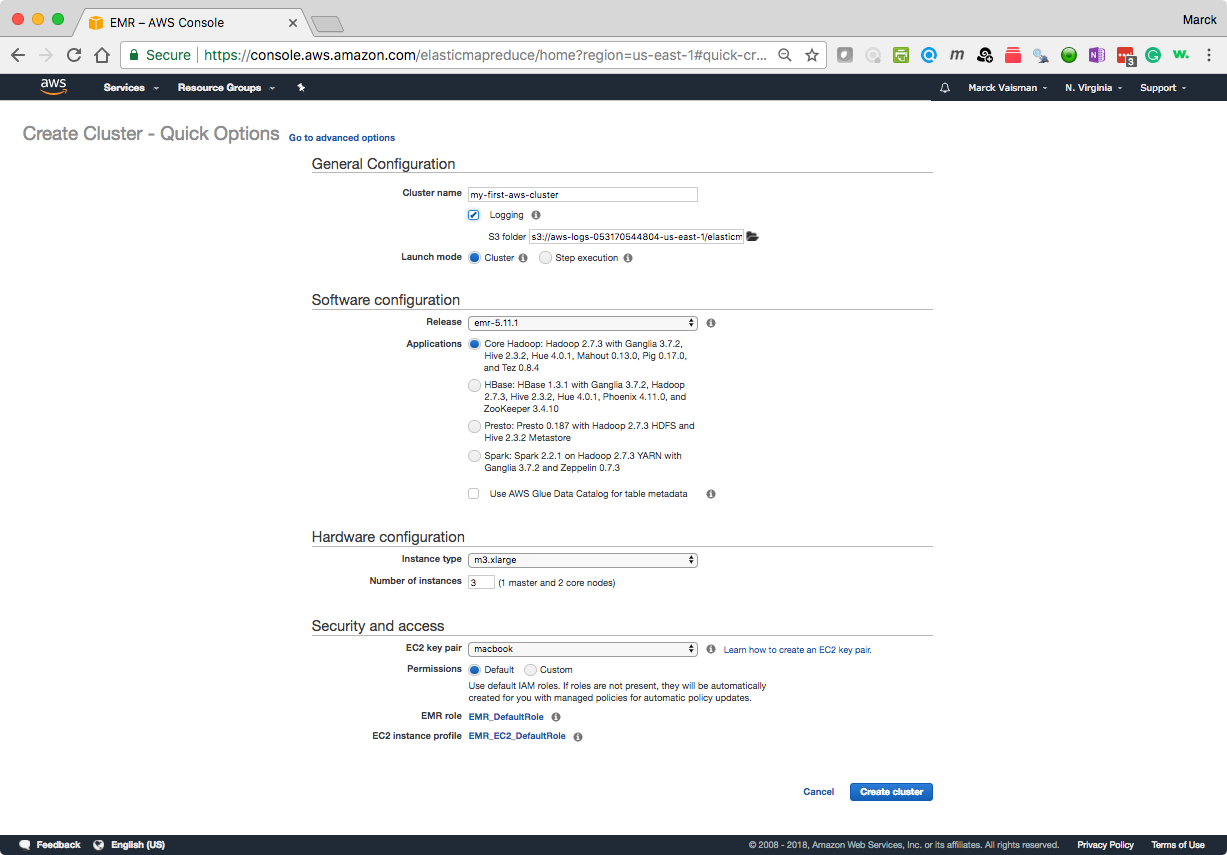
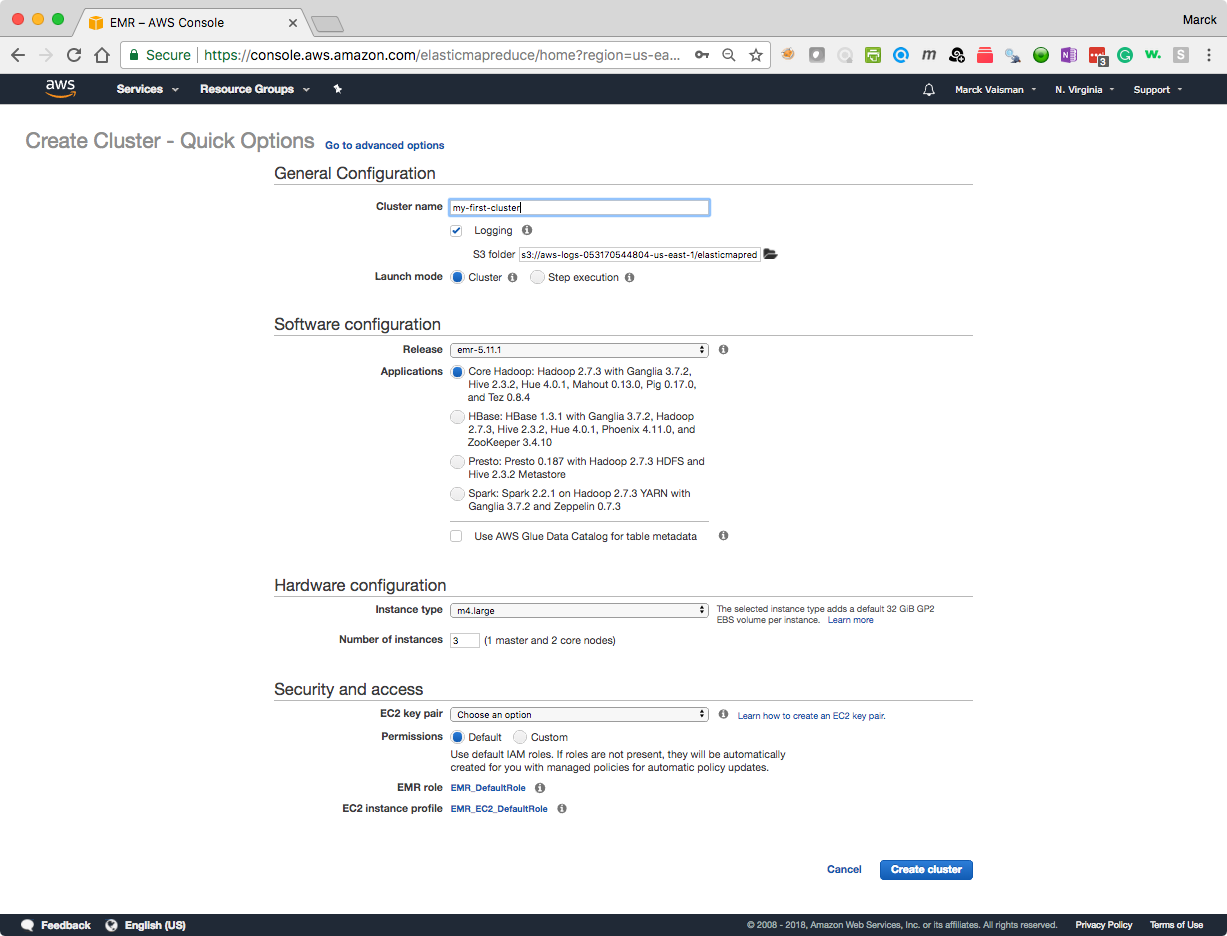
add create s3 bucket section and hadoop job example

diff --git a/README.md b/README.md
@@ -4,9 +4,9 @@
 
 1. Start an Amazon Elastic MapReduce (EMR) Cluster using Quickstart with the follwing setup (as shown in the picture):
 	*  Give the cluster a name that is meaningful to you
-	*  Use Release `emr-5.1.1`
+	*  Use Release `emr-5.11.1`
 	*  Select the first option under Applications
-	*  Select 1 master and 2 core nodes, using `m3.xlarge` instance types
+	*  Select 1 master and 2 core nodes, using `m4.large` instance types
 	*  Select your correct EC2 keypair or you will not be able to connect to the cluster
 	*  Click **Create Cluster**
 
@@ -60,42 +60,203 @@ EEEEEEEEEEEEEEEEEEEE MMMMMMM             MMMMMMM RRRRRRR      RRRRRR
 [hadoop@ip-172-31-25-210 ~]$
 ```
 
+## Create your own S3 Bucket
+
+You will create an S3 bucket of your own. EMR clusters can read/write data from the cluster's HDFS as well as S3 buckets. Remember, your HDFS storage gets deleted when you shut down a cluster. If you want to keep data files, you can save them to S3.
+
+**Make sure your region is N. Virgina**
+
+1. Go to the S3 Console
+	<img src='images/s3-01-service.png'><br>
+	
+2. Click "Create Bucket"	
+	<img src='images/s3-02-create-bucket.png'><br>
+
+3. Enter a **globally unique bucket name.** Use a combination of letters, dashes and numbers. This name must me unique across all S3 buckets on Amazon. After the first screen, you can keep the defaults. Click Next 3 times and then "Create Bucket".
+	<img src='images/s3-03-name-bucket.png'><br>
+
 
 ## Run some HDFS commands
 
 The reference guide for all the HDFS Shell commands is here: [https://hadoop.apache.org/docs/r2.7.3/hadoop-project-dist/hadoop-common/FileSystemShell.html](https://hadoop.apache.org/docs/r2.7.3/hadoop-project-dist/hadoop-common/FileSystemShell.html)
 
-1. List files in cluster's HDFS (will be empty):
+1. List files in your newly created cluster's HDFS (will be empty):
 	`hdfs dfs -ls` or `hadoop fs -ls`
 	
-2. 	List files in a public S3 bucket owned by Prof. Vaisman, created for this course: `hdfs dfs -ls s3://bigdatateaching/`
+2. 	List files in a public S3 bucket owned by Prof. Vaisman, created for this course: 	`hdfs dfs -ls s3://bigdatateaching/`
 
 	```
 	[hadoop@ip-172-31-25-210 ~]$ hadoop fs -ls s3://bigdatateaching/
-Found 11 items
-drwxrwxrwx   - hadoop hadoop          0 1970-01-01 00:00 s3://bigdatateaching/criteo
-drwxrwxrwx   - hadoop hadoop          0 1970-01-01 00:00 s3://bigdatateaching/forensicswiki
-drwxrwxrwx   - hadoop hadoop          0 1970-01-01 00:00 s3://bigdatateaching/graphx
-drwxrwxrwx   - hadoop hadoop          0 1970-01-01 00:00 s3://bigdatateaching/ham
-drwxrwxrwx   - hadoop hadoop          0 1970-01-01 00:00 s3://bigdatateaching/internet-census-2012
-drwxrwxrwx   - hadoop hadoop          0 1970-01-01 00:00 s3://bigdatateaching/meta
-drwxrwxrwx   - hadoop hadoop          0 1970-01-01 00:00 s3://bigdatateaching/ncdc
-drwxrwxrwx   - hadoop hadoop          0 1970-01-01 00:00 s3://bigdatateaching/nyctaxi
-drwxrwxrwx   - hadoop hadoop          0 1970-01-01 00:00 s3://bigdatateaching/quazyilx
-drwxrwxrwx   - hadoop hadoop          0 1970-01-01 00:00 s3://bigdatateaching/shakespeare
-drwxrwxrwx   - hadoop hadoop          0 1970-01-01 00:00 s3://bigdatateaching/spam
-[hadoop@ip-172-31-25-210 ~]$
+	Found 11 items
+	drwxrwxrwx   - hadoop hadoop          0 1970-01-01 00:00 s3://bigdatateaching/criteo
+	drwxrwxrwx   - hadoop hadoop          0 1970-01-01 00:00 s3://bigdatateaching/forensicswiki
+	drwxrwxrwx   - hadoop hadoop          0 1970-01-01 00:00 s3://bigdatateaching/graphx
+	drwxrwxrwx   - hadoop hadoop          0 1970-01-01 00:00 s3://bigdatateaching/ham
+	drwxrwxrwx   - hadoop hadoop          0 1970-01-01 00:00 s3://bigdatateaching/internet-census-2012
+	drwxrwxrwx   - hadoop hadoop          0 1970-01-01 00:00 s3://bigdatateaching/meta
+	drwxrwxrwx   - hadoop hadoop          0 1970-01-01 00:00 s3://bigdatateaching/ncdc
+	drwxrwxrwx   - hadoop hadoop          0 1970-01-01 00:00 s3://bigdatateaching/nyctaxi
+	drwxrwxrwx   - hadoop hadoop          0 1970-01-01 00:00 s3://bigdatateaching/quazyilx
+	drwxrwxrwx   - hadoop hadoop          0 1970-01-01 00:00 s3://bigdatateaching/shakespeare
+	drwxrwxrwx   - hadoop hadoop          0 1970-01-01 00:00 s3://bigdatateaching/spam
+	[hadoop@ip-172-31-25-210 ~]$
 	```
 	
 3. Copy a file from the course's S3 public bucket **to your personal S3 bucket**
-`hadoop fs -cp s3://bigdatateaching/shakespeare/100-0.txt s3://[[your-bucket-name]]/`
-**Note: this file exists until you delete it**
+	`hadoop fs -cp s3://bigdatateaching/shakespeare/100-0.txt s3://[[your-bucket-name]]/`
+
+	**Note: this file exists until you delete it**
+
+	Now you can see list the contents of **your** S3 bucket: `hadoop fs -ls s3://[[your-bucket-name]]`
 
 4. Copy a file from the course's S3 public bucket **the cluster's HDFS**
+
+	`hadoop fs -cp s3://bigdatateaching/shakespeare/100-0.txt ./`
+	
+	In the previous command, you did almost the same as in step 3. However, the destination is different. Notice that the destination **does not** have the `s3://`prefix. Anytime you use the HDFS shell commands, and the source/location do not have `s3://` you are working with the cluster's HDFS.
+	
+	You can now list the contents of your cluster's HDFS:
+	`hadoop fs -ls`
+
+	```
+	Found 1 items
+-rw-r--r--   1 hadoop hadoop    5856576 2018-02-09 00:57 100-0.txt
 ```
-hadoop fs -cp s3://bigdatateaching/shakespeare/100-0.txt ./
-hadoop fs -ls
+
+## Run a Hadoop job
+
+You will run a Hadoop job using a built-in example that comes with Hadoop. It is the Word Count. You will issue a command that will start the job with a specified `.jar` (Java Archive) file and pass in some parameters. You will use the `100-0.txt` file in HDFS as the input, and you will specify the output to your S3 bucket.
+
+`hadoop jar /usr/lib/hadoop-mapreduce/hadoop-mapreduce-examples.jar wordcount 100-0.txt s3://[[your-s3-bucket]]/shakespearewordcount`
+
+You should see something like this:
+
 ```
+18/02/09 01:03:02 INFO impl.TimelineClientImpl: Timeline service address: http://ip-172-31-15-90.ec2.internal:8188/ws/v1/timeline/
+18/02/09 01:03:02 INFO client.RMProxy: Connecting to ResourceManager at ip-172-31-15-90.ec2.internal/172.31.15.90:8032
+18/02/09 01:03:03 INFO input.FileInputFormat: Total input paths to process : 1
+18/02/09 01:03:03 INFO lzo.GPLNativeCodeLoader: Loaded native gpl library
+18/02/09 01:03:03 INFO lzo.LzoCodec: Successfully loaded & initialized native-lzo library [hadoop-lzo rev fc548a0642e795113789414490c9e59e6a8b91e4]
+18/02/09 01:03:03 INFO mapreduce.JobSubmitter: number of splits:1
+18/02/09 01:03:03 INFO mapreduce.JobSubmitter: Submitting tokens for job: job_1518130868569_0001
+18/02/09 01:03:04 INFO impl.YarnClientImpl: Submitted application application_1518130868569_0001
+18/02/09 01:03:04 INFO mapreduce.Job: The url to track the job: http://ip-172-31-15-90.ec2.internal:20888/proxy/application_1518130868569_0001/
+18/02/09 01:03:04 INFO mapreduce.Job: Running job: job_1518130868569_0001
+18/02/09 01:03:15 INFO mapreduce.Job: Job job_1518130868569_0001 running in uber mode : false
+18/02/09 01:03:15 INFO mapreduce.Job:  map 0% reduce 0%
+18/02/09 01:03:27 INFO mapreduce.Job:  map 100% reduce 0%
+18/02/09 01:03:36 INFO mapreduce.Job:  map 100% reduce 33%
+18/02/09 01:03:40 INFO mapreduce.Job:  map 100% reduce 67%
+18/02/09 01:03:41 INFO mapreduce.Job:  map 100% reduce 100%
+18/02/09 01:03:42 INFO mapreduce.Job: Job job_1518130868569_0001 completed successfully
+18/02/09 01:03:43 INFO mapreduce.Job: Counters: 55
+	File System Counters
+		FILE: Number of bytes read=599117
+		FILE: Number of bytes written=1706110
+		FILE: Number of read operations=0
+		FILE: Number of large read operations=0
+		FILE: Number of write operations=0
+		HDFS: Number of bytes read=5856703
+		HDFS: Number of bytes written=0
+		HDFS: Number of read operations=2
+		HDFS: Number of large read operations=0
+		HDFS: Number of write operations=0
+		S3: Number of bytes read=0
+		S3: Number of bytes written=817344
+		S3: Number of read operations=0
+		S3: Number of large read operations=0
+		S3: Number of write operations=0
+	Job Counters
+		Killed reduce tasks=1
+		Launched map tasks=1
+		Launched reduce tasks=3
+		Data-local map tasks=1
+		Total time spent by all maps in occupied slots (ms)=427584
+		Total time spent by all reduces in occupied slots (ms)=2740224
+		Total time spent by all map tasks (ms)=8908
+		Total time spent by all reduce tasks (ms)=28544
+		Total vcore-milliseconds taken by all map tasks=8908
+		Total vcore-milliseconds taken by all reduce tasks=28544
+		Total megabyte-milliseconds taken by all map tasks=13682688
+		Total megabyte-milliseconds taken by all reduce tasks=87687168
+	Map-Reduce Framework
+		Map input records=147838
+		Map output records=959301
+		Map output bytes=9117121
+		Map output materialized bytes=599130
+		Input split bytes=127
+		Combine input records=959301
+		Combine output records=76169
+		Reduce input groups=76169
+		Reduce shuffle bytes=599130
+		Reduce input records=76169
+		Reduce output records=76169
+		Spilled Records=152338
+		Shuffled Maps =3
+		Failed Shuffles=0
+		Merged Map outputs=3
+		GC time elapsed (ms)=1227
+		CPU time spent (ms)=8900
+		Physical memory (bytes) snapshot=1666109440
+		Virtual memory (bytes) snapshot=17266147328
+		Total committed heap usage (bytes)=1656225792
+	Shuffle Errors
+		BAD_ID=0
+		CONNECTION=0
+		IO_ERROR=0
+		WRONG_LENGTH=0
+		WRONG_MAP=0
+		WRONG_REDUCE=0
+	File Input Format Counters
+		Bytes Read=5856576
+	File Output Format Counters
+		Bytes Written=817344
+```
+
+After the job is complete, you can see the results files in your S3 bucket:
+
+`hadoop fs -ls s3://[[your-s3-bucket]]/`
+
+```
+Found 2 items
+-rw-rw-rw-   1 hadoop hadoop    5856576 2018-02-05 22:55 s3://marckvaisman-anly502/100-0.txt
+drwxrwxrwx   - hadoop hadoop          0 1970-01-01 00:00 s3://marckvaisman-anly502/shakespearewordcount
+```
+You'll see the text file you copied earlier, and the directory created by the Hadoop job.
+
+You can see the contents inside that directory:
+
+```
+Found 4 items
+-rw-rw-rw-   1 hadoop hadoop          0 2018-02-09 01:03 s3://marckvaisman-anly502/shakespearewordcount/_SUCCESS
+-rw-rw-rw-   1 hadoop hadoop     273328 2018-02-09 01:03 s3://marckvaisman-anly502/shakespearewordcount/part-r-00000
+-rw-rw-rw-   1 hadoop hadoop     270439 2018-02-09 01:03 s3://marckvaisman-anly502/shakespearewordcount/part-r-00001
+-rw-rw-rw-   1 hadoop hadoop     273577 2018-02-09 01:03 s3://marckvaisman-anly502/shakespearewordcount/part-r-00002
+```
+
+Each `part-r-xxxxx` file is the result of a reduce process. 
+
+To see the contents **inside** a file (the first 5 lines), you can use another command:
+
+`hadoop fs -cat s3://[[your-s3-bucket]]/shakespearewordcount/part-r-00000 | head`
+
+```
+18/02/09 01:09:41 INFO s3n.S3NativeFileSystem: Opening 's3://marckvaisman-anly502/shakespearewordcount/part-r-00000' for reading
+"'Tis	1
+"Amen,"	1
+"Brutus"	1
+"Caesar"?	1
+"Come	1
+"Fear	2
+"Fly,	1
+"Gentle	1
+"Here	1
+"I	4
+18/02/09 01:09:41 WARN internal.S3AbortableInputStream: Not all bytes were read from the S3ObjectInputStream, aborting HTTP connection. This is likely an error and may result in sub-optimal behavior. Request only the bytes you need via a ranged GET or drain the input stream after use.
+cat: Unable to write to output stream.
+```
+
+
 
 
 
